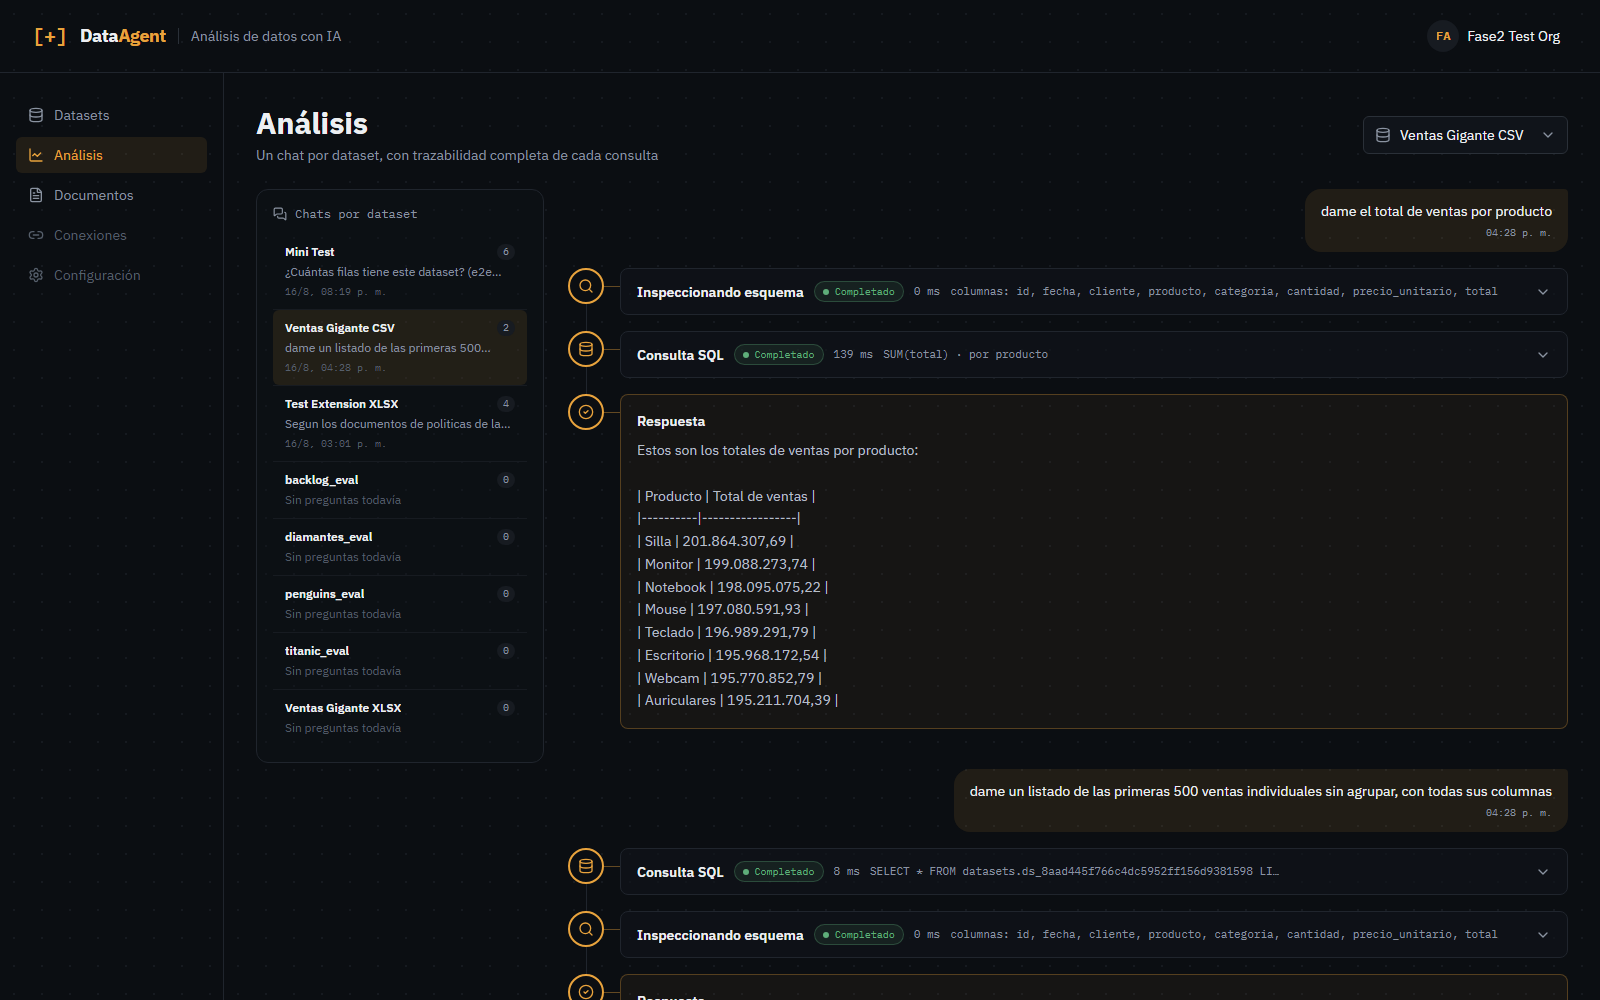
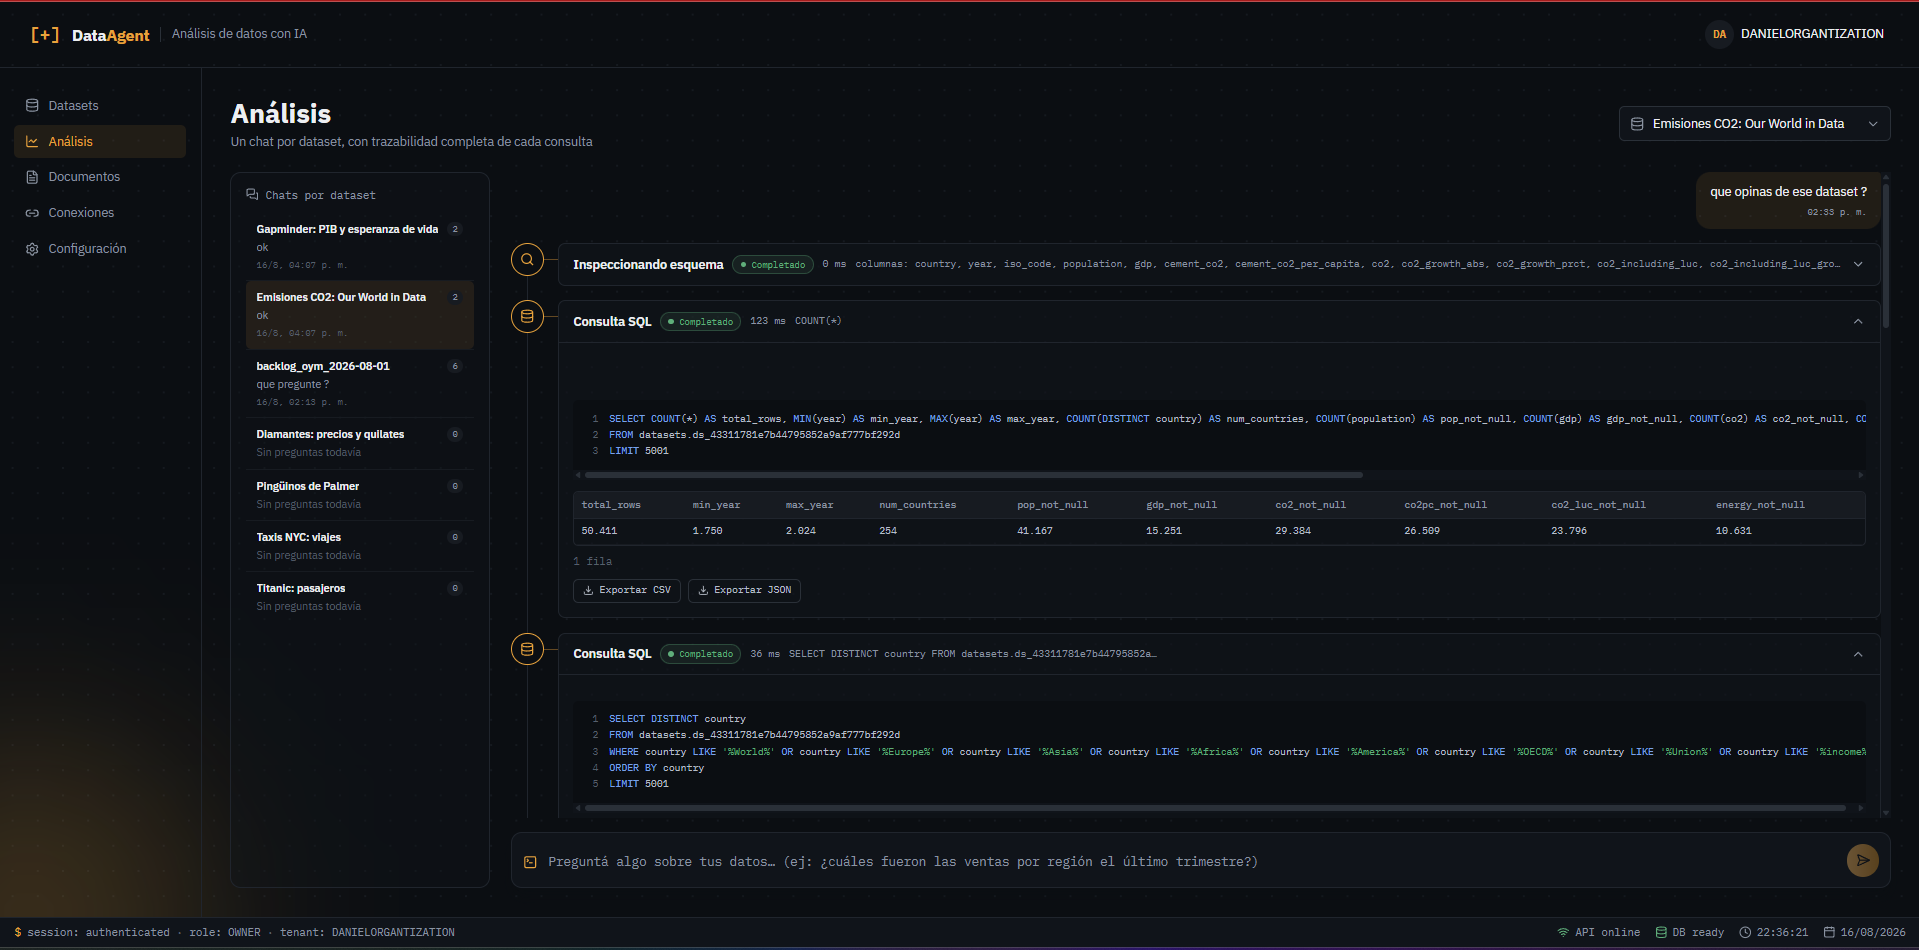
docs: actualizar screenshots del README con capturas reales actuales
Las anteriores (login/datasets/analisis) quedaron desactualizadas tras
el split de Conexiones de esta sesion - datasets.png todavia mostraba
la tarjeta "Conectar PostgreSQL externo" dentro de Datasets, que ya no
existe ahi (RF-010, ahora vive en su propia pagina). Las nuevas
reflejan el layout actual y datasets mas representativos para
portfolio (Gapminder, Titanic, Diamantes, Pingüinos, Taxis NYC,
Emisiones CO2) en vez de nombres de datasets de test/eval
(*_eval, "Ventas Gigante").

documentos.png no cambio (esa pagina no se toco esta sesion).

Leyenda del README ajustada: ya no nombra una cuenta de prueba
especifica, para no quedar inconsistente con capturas de una
organizacion distinta.

diff --git a/README.md b/README.md
@@ -143,8 +143,8 @@ Verificación rápida: `curl http://localhost:8000/health/live` debe responder
 
 ## Demo / Screenshots
 
-Capturas reales contra la cuenta de prueba (`fase2test@example.com`), con datasets,
-análisis y documentos ya poblados.
+Capturas reales de la aplicación en uso, con datasets, análisis y documentos ya
+poblados.
 
 #### Login
 
